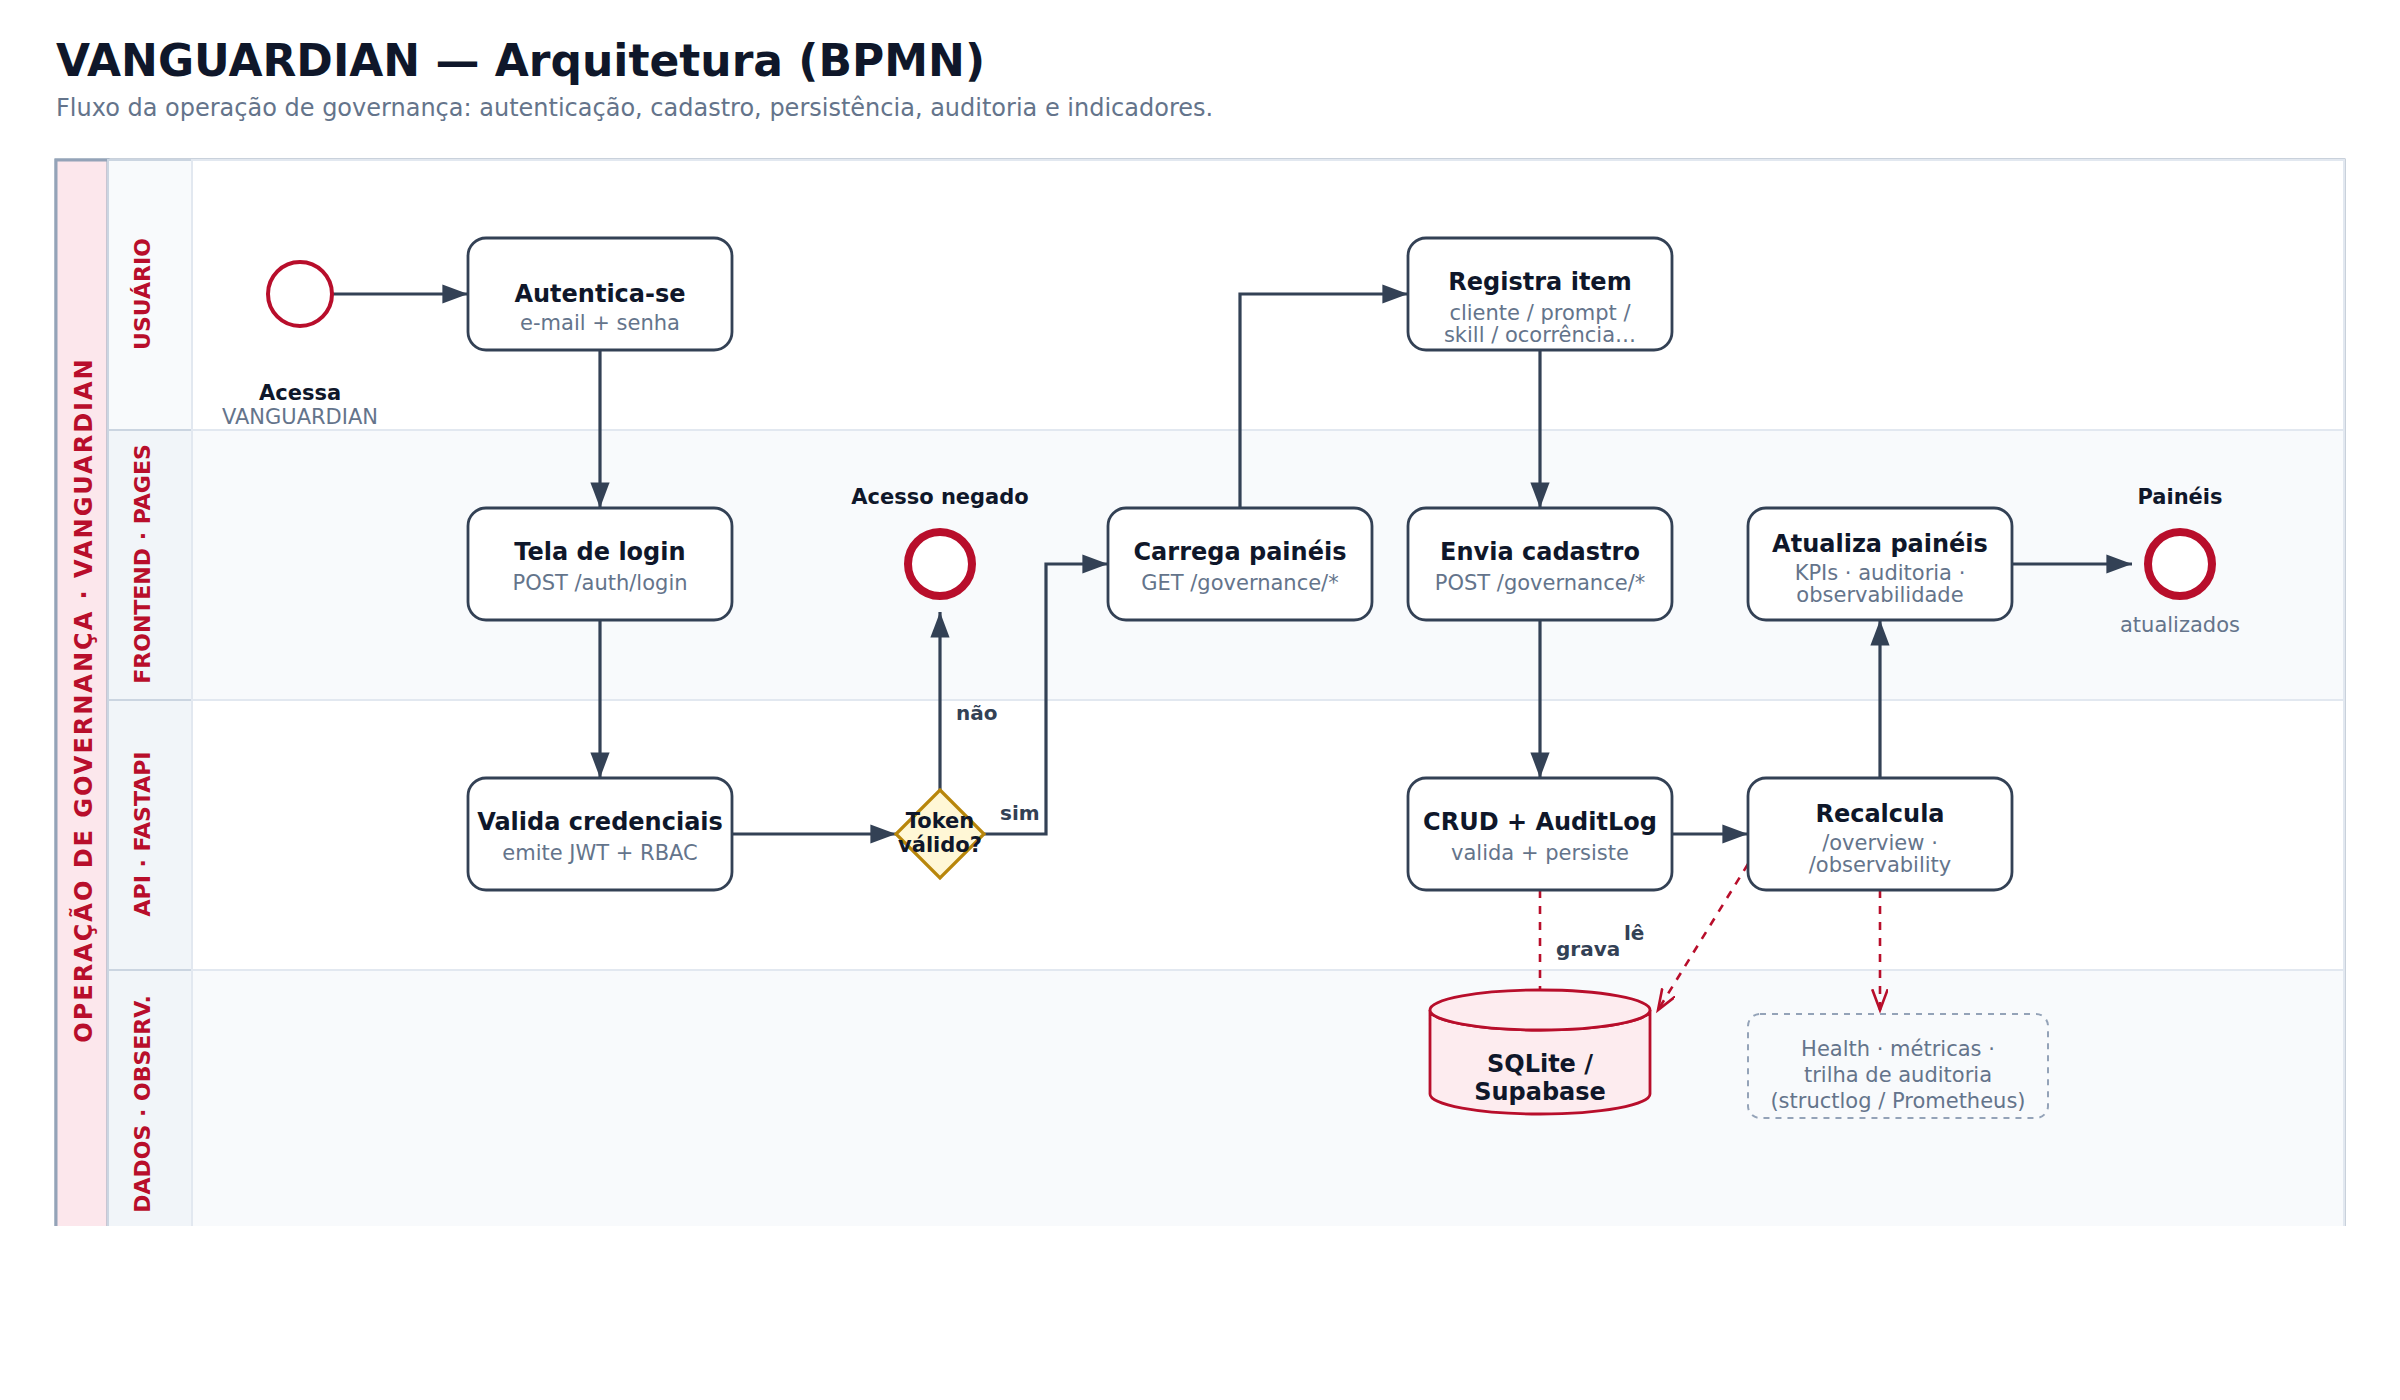
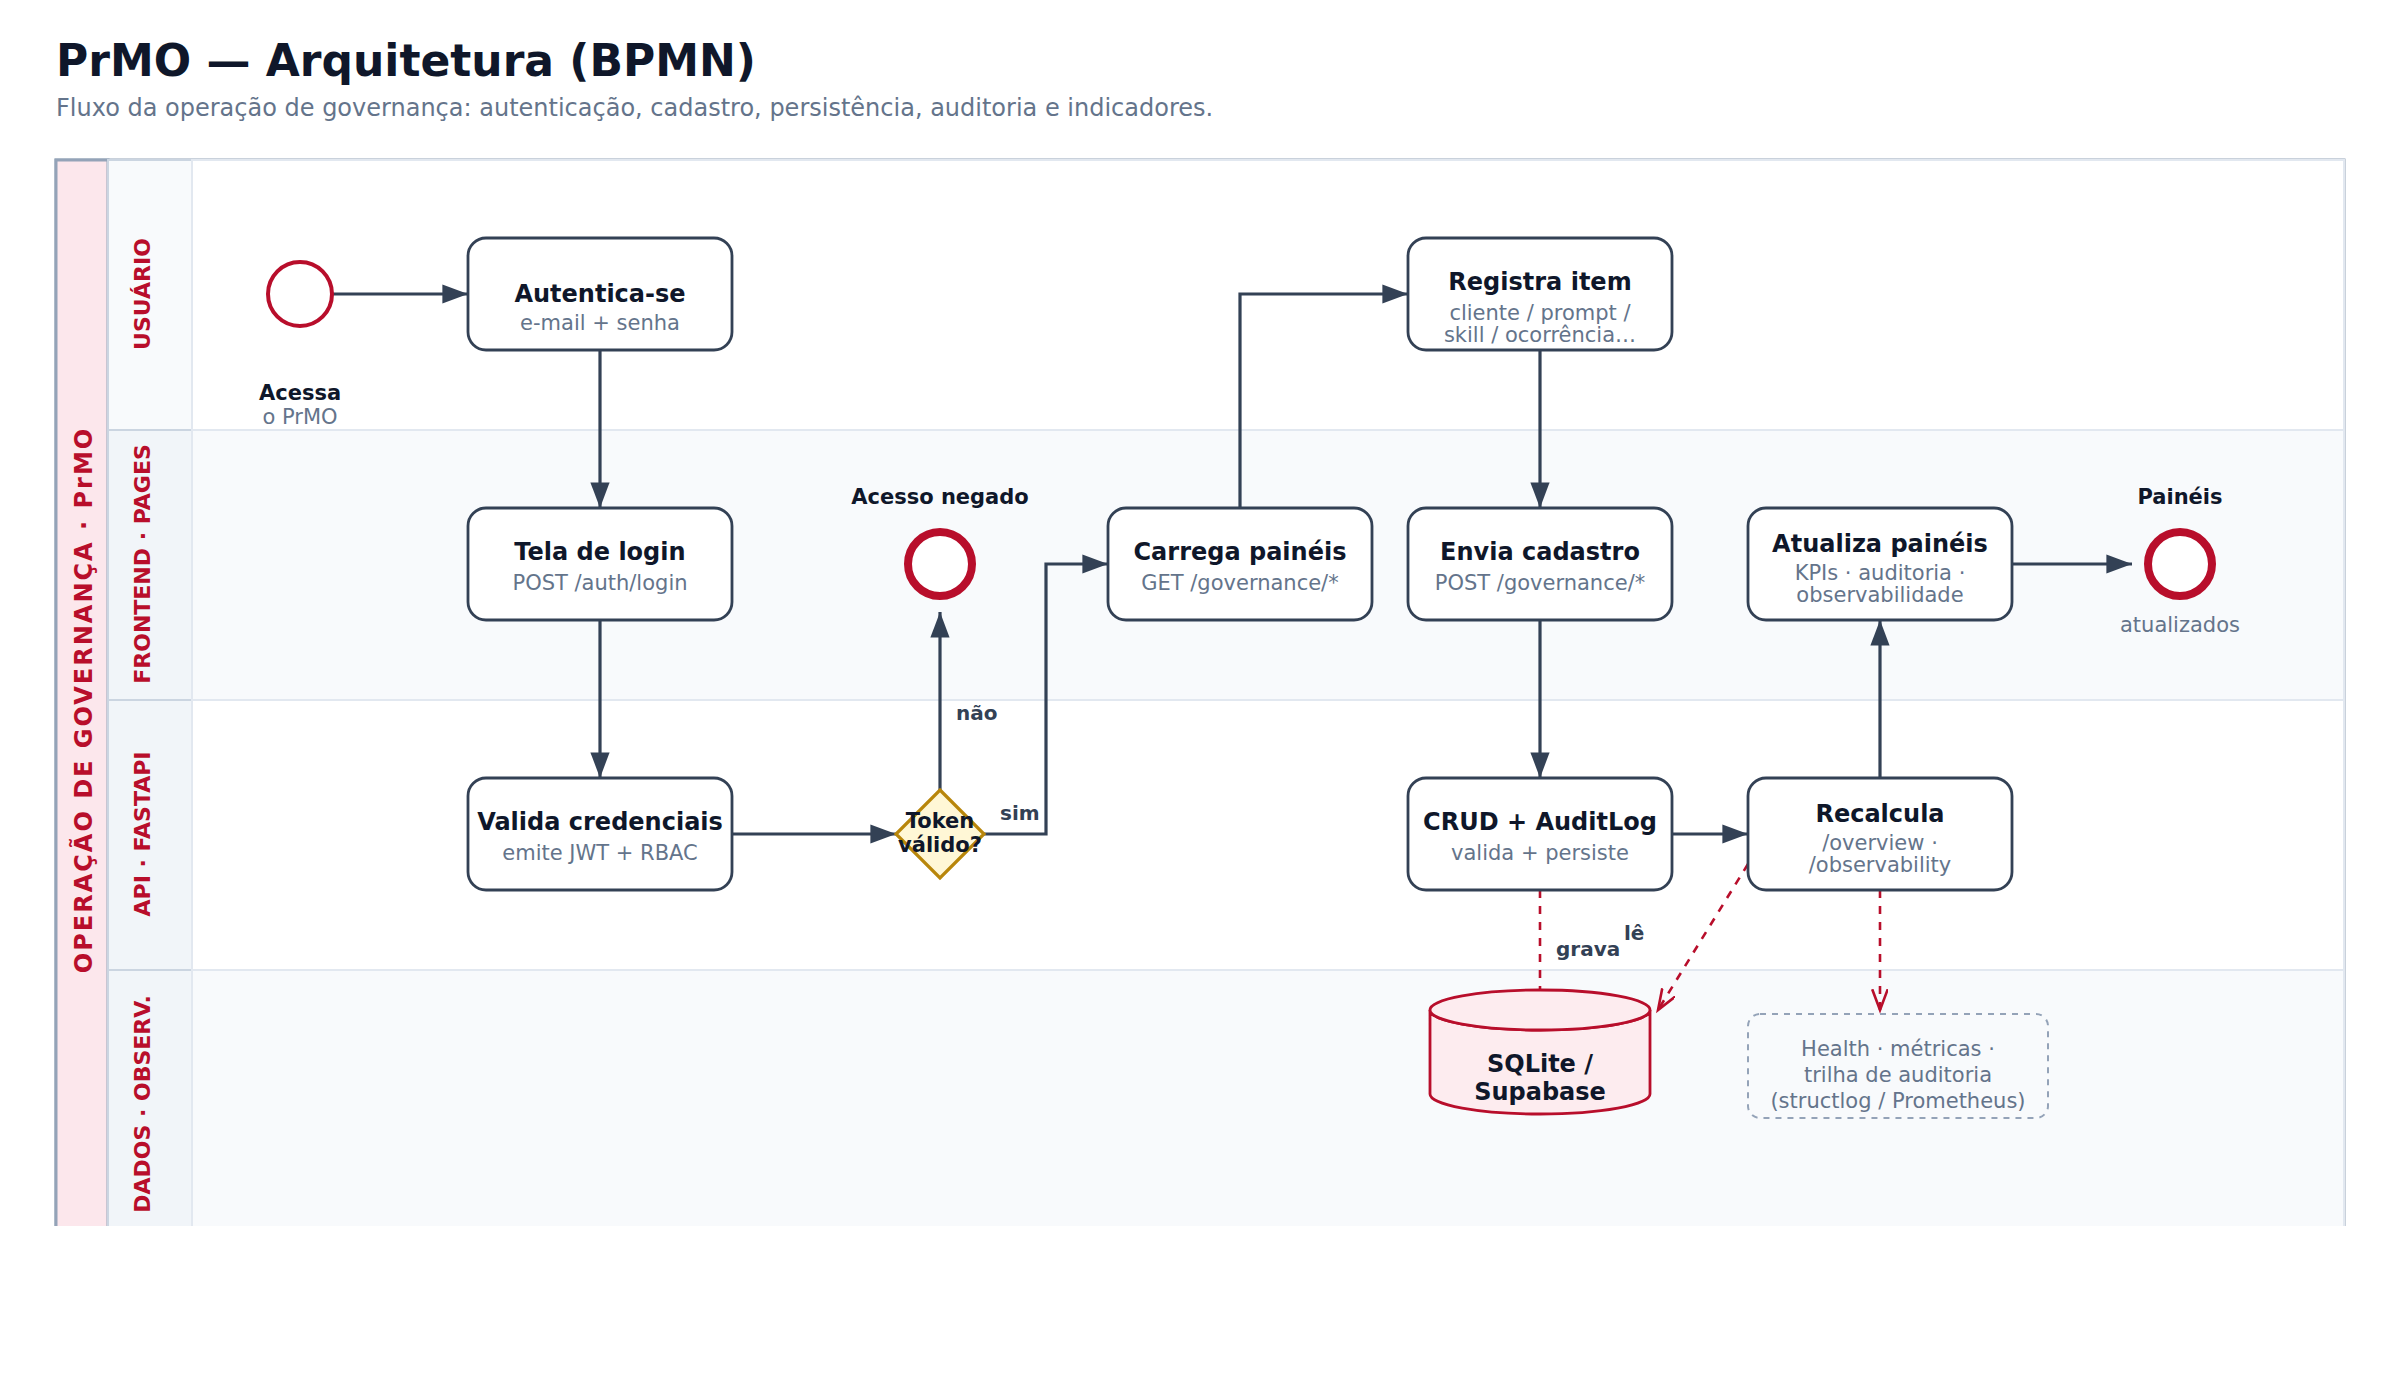
feat: rebrand para PrMO (Prompt Management Office) + diário de sessão
- Renomeia o produto para PrMO — Prompt Management Office no frontend (marca,
  título, login, rodapé), backend (app_name, descrição da API), render.yaml,
  README, marcador do CI e diagrama BPMN (SVG+PNG). Slug do repo e URLs
  (Pages/Render) mantidos para não quebrar links.
- Diário de sessão: registra RBAC do usuário comum, criação do login comum,
  regra de cadastro de prompt em "Revisão pendente" e o rebrand.

Claude-Session: https://claude.ai/code/session_01Ack6Fgr5r7YLj6yw7sYX4j

Changed region(s): [[0.0312, 0.2764, 0.0625, 0.7371], [0.0, 0.0307, 0.4062, 0.0614], [0.0938, 0.2764, 0.1562, 0.3071]]

diff --git a/frontend/index.html b/frontend/index.html
@@ -3,7 +3,7 @@
 <head>
   <meta charset="utf-8" />
   <meta name="viewport" content="width=device-width, initial-scale=1" />
-  <title>VANGUARDIAN | Governança de IA</title>
+  <title>PrMO — Prompt Management Office</title>
   <style>
     :root{--bg:#080708;--panel:#111015;--panel2:#17151c;--line:#302832;--ink:#f9f7f8;--muted:#afa8b0;--red:#ff1f45;--red2:#b80e2b;--green:#68d391;--amber:#ffc857;--blue:#70b7ff;--radius:16px;}
     *{box-sizing:border-box} body{margin:0;background:var(--bg);color:var(--ink);font-family:Inter,ui-sans-serif,system-ui,-apple-system,BlinkMacSystemFont,"Segoe UI",sans-serif;min-height:100vh}
@@ -30,7 +30,7 @@
 <body>
 <div class="app">
   <aside class="sidebar">
-    <div class="brand"><b>VANGUARDA.IA</b><small>VANGUARDIAN · GOVERNANÇA</small></div>
+    <div class="brand"><b>PrMO</b><small>PROMPT MANAGEMENT OFFICE</small></div>
     <div class="nav-title">OPERAÇÃO</div>
     <nav class="nav">
       <button class="active ctrl-only" data-page="dashboard">◈ &nbsp; Visão executiva</button>
@@ -41,7 +41,7 @@
     </nav>
     <div class="footer">
       <div><span class="dot" id="obsDot"></span><span id="obsText">Observabilidade…</span></div>
-      <div style="margin-top:8px">VANGUARDIAN v2.0 · <span id="whoami">—</span></div>
+      <div style="margin-top:8px">PrMO v2.0 · <span id="whoami">—</span></div>
       <div style="margin-top:2px">Uma única inteligência. <button class="linkbtn" onclick="logout()">Sair</button></div>
     </div>
   </aside>
@@ -91,8 +91,8 @@
 <div class="modal" id="modal"><div class="dialog"><h3 id="modalTitle">Registrar item</h3><div class="form" id="modalForm"></div><div class="modal-actions"><button class="btn alt" onclick="closeModal()">Cancelar</button><button class="btn" id="saveBtn" onclick="saveItem()">Salvar registro</button></div></div></div>
 
 <div id="login"><div class="box">
-  <div class="eyebrow">VANGUARDA.IA · Governança</div>
-  <h2>Entrar no VANGUARDIAN</h2>
+  <div class="eyebrow">PrMO · Prompt Management Office</div>
+  <h2>Entrar no PrMO</h2>
   <p>Acesse com suas credenciais corporativas.</p>
   <form onsubmit="doLogin(event)">
     <label>E-mail<input id="lEmail" type="email" value="admin@vanguardian.com" autocomplete="username"></label>

diff --git a/backend/main.py b/backend/main.py
@@ -43,7 +43,7 @@ async def lifespan(app: FastAPI):
 app = FastAPI(
     title=settings.app_name,
     description=(
-        "API de governança digital VANGUARDIAN: controle de acessos, "
+        "API do PrMO (Prompt Management Office) — governança de IA: acessos, "
         "ferramentas, skills, prompts, autenticação, admin, observabilidade "
         "e integrações (RD Station, ICLIPS, VJOB)."
     ),

diff --git a/backend/config.py b/backend/config.py
@@ -9,7 +9,7 @@ from functools import lru_cache
 
 class Settings(BaseSettings):
     # Application
-    app_name: str = "VANGUARDIAN API"
+    app_name: str = "PrMO API"
     debug: bool = True
     version: str = "1.0.0"
 

diff --git a/docs/DIARIO-SESSAO.md b/docs/DIARIO-SESSAO.md
@@ -1,6 +1,33 @@
-# Diário de Sessão — VANGUARDIAN
+# Diário de Sessão — PrMO (Prompt Management Office)
 
 Registro cronológico do trabalho por sessão. Entrada mais recente no topo.
+
+---
+
+## 2026-08-10 (sessão 2) — RBAC do usuário comum e rebrand para PrMO
+
+### 🎯 Objetivo
+Definir a regra de acesso do usuário comum e renomear o projeto.
+
+### ✅ Entregas
+- **RBAC — usuário comum (`User`)**: acesso e visão **somente da Biblioteca de prompts**.
+  - Frontend: menus e botões de cadastro dos demais módulos ocultos (`ctrl-only`); User cai direto na Biblioteca.
+  - Backend: `POST /governance/*` restrito a Manager/Admin (User → 403).
+- **Cadastro de prompt pelo colaborador**: botão "+ Novo prompt" liberado para o User, porém o registro entra **sempre como "Revisão pendente"** (o campo Controle é ocultado e o backend força o status). Homologação (Aprovado/Reprovado) segue exclusiva de Manager/Admin.
+- **Novo login comum**: `user@vanguardamartech.com.br` / `user123` (perfil User, ativo).
+- **Rebrand do projeto → PrMO — Prompt Management Office**: frontend (marca, título, login, rodapé), backend (`app_name`, descrição da API), `render.yaml` (`APP_NAME`), README, CI (marcador) e diagrama BPMN (SVG+PNG). Slug do repositório e URLs (Pages/Render) mantidos para não quebrar links.
+
+### 🧪 Validações ao vivo
+- User: `GET /governance/prompts` 200; `POST` prompt 201 com `control` forçado a "Revisão pendente"; `POST` incident 403.
+- Manager/Admin: cadastram e homologam normalmente.
+- Login `user@vanguardamartech.com.br` ativo (HTTP 200, role User).
+
+### 🧭 Decisões
+- Nome do produto passa a ser **PrMO**; contexto corporativo "Vanguarda Martech" mantido.
+- Fluxo de homologação: colaborador envia (Revisão pendente) → Admin/Manager aprova ou reprova.
+
+### ⏳ Pendências (mantidas)
+- Supabase (billing "VTech"), branch padrão → `main`, integração VanguardIA, botão de aprovar/reprovar in-app, KPI "Clientes governados", migração de schema quando o banco for persistente.
 
 ---
 

diff --git a/README.md b/README.md
@@ -1,4 +1,4 @@
-# VANGUARDIAN — Governança de IA, Prompts & Propriedade Intelectual
+# PrMO — Prompt Management Office
 
 > **Repositório corporativo de prompts e propriedade intelectual da Vanguarda Martech.**
 > *Uma única inteligência. Múltiplas aplicações. Resultados exponenciais.*
@@ -9,7 +9,7 @@
 
 ## 📋 Visão Geral
 
-O **VANGUARDIAN** transforma iniciativas isoladas de Inteligência Artificial em um
+O **PrMO** transforma iniciativas isoladas de Inteligência Artificial em um
 ecossistema **integrado, versionado, auditável e governado**. Este repositório é a
 **fonte da verdade** dos ativos de IA da agência:
 
@@ -18,7 +18,7 @@ ecossistema **integrado, versionado, auditável e governado**. Este repositório
 - 🏛 **Governança** com norma NIA-001, RBAC e trilha de auditoria ([`docs/`](docs/)).
 - 🖥 **Plataforma** de governança: SPA de dashboard + API FastAPI.
 
-| Desafio | Solução VANGUARDIAN |
+| Desafio | Solução PrMO |
 |---------|---------------------|
 | Prompts perdidos em chats | **Biblioteca corporativa** versionada e homologada (NIA-001) |
 | PI não protegida | **Classificação de dados** + licença proprietária + cadeia de custódia por `git` |
@@ -94,7 +94,7 @@ uvicorn main:app --reload
 
 ### Frontend (protótipo estático)
 
-O frontend é o protótipo VANGUARDIAN — um `index.html` **autocontido** (CSS/JS inline,
+O frontend é o protótipo PrMO — um `index.html` **autocontido** (CSS/JS inline,
 sem dependências, sem build). Abra direto no navegador ou sirva estaticamente:
 
 ```bash
